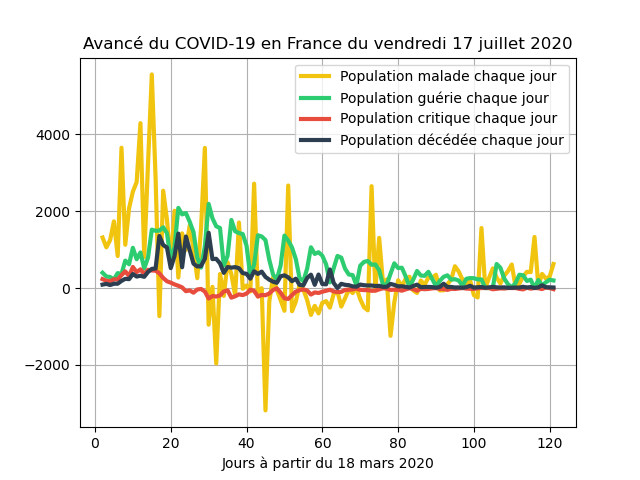
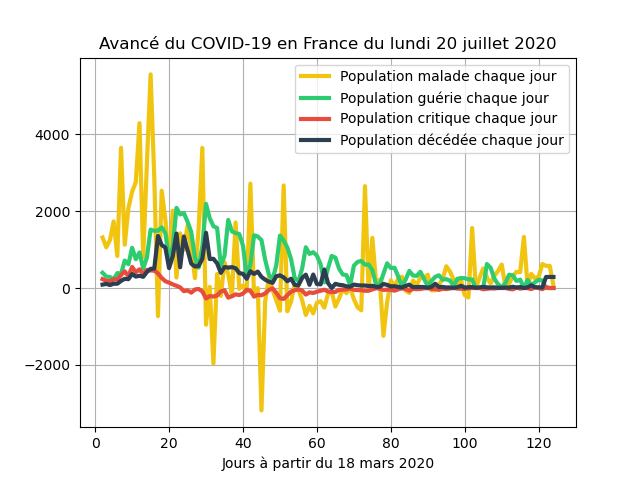
update data

diff --git a/main.py b/main.py
@@ -168,7 +168,7 @@ while True:
         # cases[9] = 0 # nouveaux malades| Not used here
         # cases[10] = 0 # nouveaux critique/en réanimation
 
-        #cases.insert(index, 'valeur')
+        #cases.insert(5, '0')
 
         # Retrouver les données d'hier
         f1 = open("data/dataFrance.csv", "r")
@@ -177,7 +177,7 @@ while True:
 
         try:
             # Vérifier si toutes les données sont publiées
-            if (last_line[0] != str("20" + datetime.datetime.today().strftime("%y-%m-%d")) and cases[15]):
+            if (last_line[0] != str("20" + datetime.datetime.today().strftime("%y-%m-%d")) and cases[14]):
                 verif = True
             else:
                 spinner.color = 'magenta'
